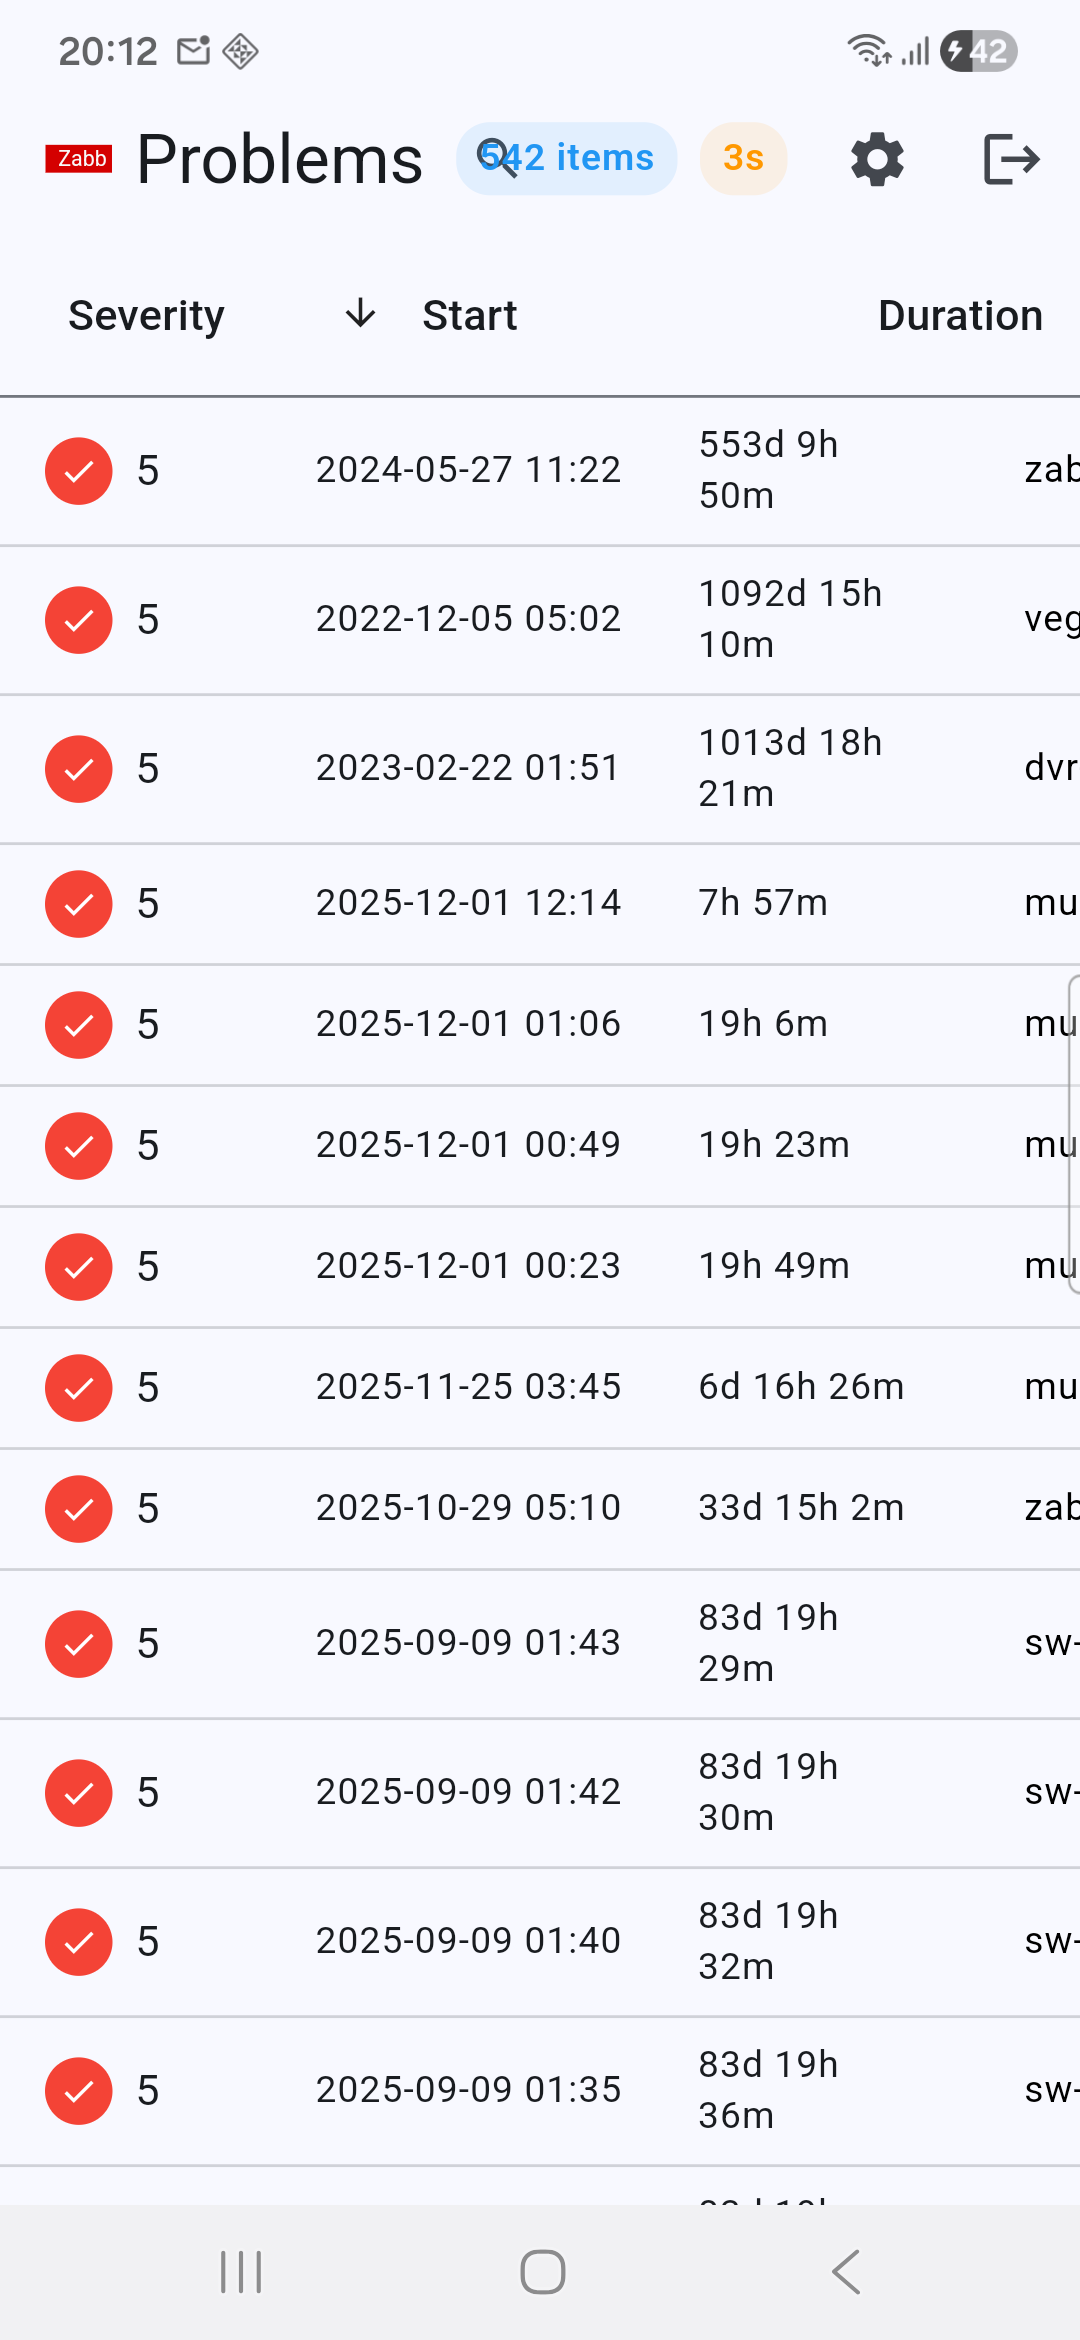
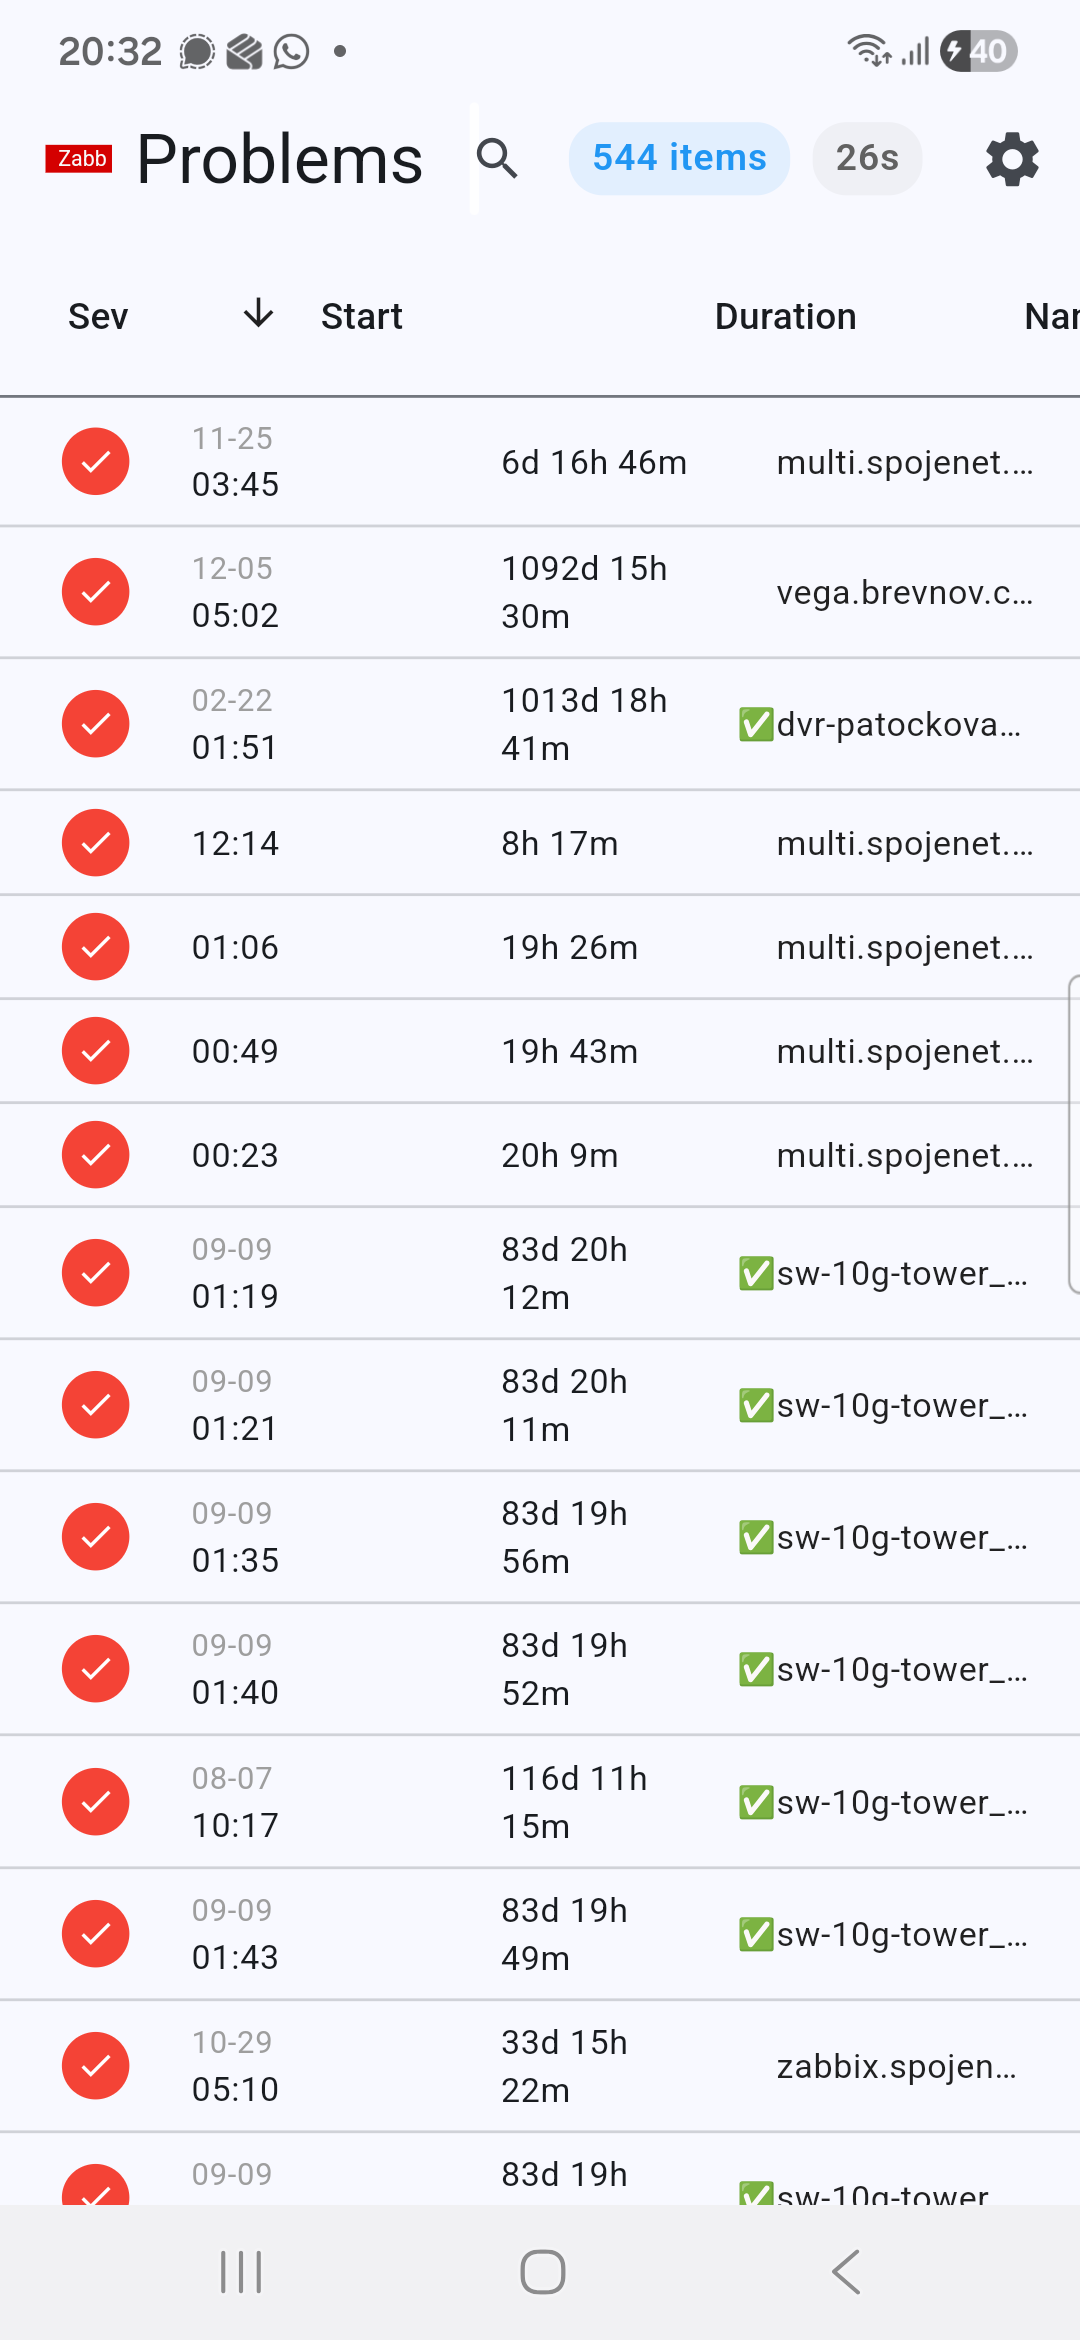
Fix UI issues: logout navigation, remove Problems text, search functionality, and column spacing
Navigation Fix:
- Fixed logout to navigate to welcome screen (/welcome) instead of root (/)

UI Improvements:
- Removed 'Problems' text from AppBar title for cleaner mobile interface
- Fixed search icon tap functionality - now properly focuses the search input field
- Added FocusNode for search field management

Layout Optimization:
- Reduced excessive spacing between Start and Duration columns
- Optimized column widths: Start (85px), Duration (70px) for better space utilization
- Updated header column widths to match data column widths

Technical Changes:
- Added _searchFocusNode with proper disposal
- Made search icon tappable with GestureDetector
- Updated version to 0.1.3

diff --git a/lib/screens/problems_screen.dart b/lib/screens/problems_screen.dart
@@ -20,6 +20,7 @@ class _ProblemsScreenState extends State<ProblemsScreen> {
   int _countdownSeconds = 30;
   int _itemCount = 0;
   final _searchController = TextEditingController();
+  final _searchFocusNode = FocusNode();
   
   // Filter state that persists across refreshes
   int? _selectedSeverity;
@@ -37,6 +38,7 @@ class _ProblemsScreenState extends State<ProblemsScreen> {
   void dispose() {
     _refreshTimer?.cancel();
     _searchController.dispose();
+    _searchFocusNode.dispose();
     super.dispose();
   }
 
@@ -88,7 +90,7 @@ class _ProblemsScreenState extends State<ProblemsScreen> {
                   await _auth.logout();
                   if (mounted) {
                     Navigator.of(context).pushNamedAndRemoveUntil(
-                      '/',
+                      '/welcome',
                       (route) => false,
                     );
                   }
@@ -120,17 +122,19 @@ class _ProblemsScreenState extends State<ProblemsScreen> {
         title: Row(
           children: [
             SvgPicture.asset('assets/zabb.svg', height: 24, width: 24),
-            const SizedBox(width: 8),
-            const Text('Problems'),
             const SizedBox(width: 16),
             Expanded(
               child: SizedBox(
                 height: 40,
                 child: TextField(
                   controller: _searchController,
+                  focusNode: _searchFocusNode,
                   decoration: InputDecoration(
                     hintText: 'Search...',
-                    prefixIcon: const Icon(Icons.search, size: 20),
+                    prefixIcon: GestureDetector(
+                      onTap: () => _searchFocusNode.requestFocus(),
+                      child: const Icon(Icons.search, size: 20),
+                    ),
                     suffixIcon: _searchQuery.isNotEmpty
                         ? IconButton(
                             icon: const Icon(Icons.clear, size: 18),
@@ -815,11 +819,11 @@ class _ProblemsTableState extends State<_ProblemsTable> {
                 onSort: (i, asc) => setState(() { _sortColumnIndex = i; _sortAscending = asc; }),
               ),
               DataColumn(
-                label: const SizedBox(width: 110, child: Text('Start', style: TextStyle(fontSize: 12))),
+                label: const SizedBox(width: 85, child: Text('Start', style: TextStyle(fontSize: 12))),
                 onSort: (i, asc) => setState(() { _sortColumnIndex = i; _sortAscending = asc; }),
               ),
               DataColumn(
-                label: const SizedBox(width: 80, child: Text('Duration', style: TextStyle(fontSize: 12))),
+                label: const SizedBox(width: 70, child: Text('Duration', style: TextStyle(fontSize: 12))),
                 onSort: (i, asc) => setState(() { _sortColumnIndex = i; _sortAscending = asc; }),
               ),
               DataColumn(
@@ -868,23 +872,23 @@ class _ProblemsTableState extends State<_ProblemsTable> {
                         },
                       ),
                     ),
-                    const SizedBox(width: 12),
+                    const SizedBox(width: 8),
                     // Start column with responsive formatting
                     GestureDetector(
                       onTap: () => widget.onDetails(p),
                       child: SizedBox(
-                        width: 98,
+                        width: 85,
                         child: startDateTime == null 
                             ? const Text('', style: TextStyle(fontSize: 11))
                             : _buildDateTimeColumn(startDateTime),
                       ),
                     ),
-                    const SizedBox(width: 12),
+                    const SizedBox(width: 8),
                     // Duration column
                     GestureDetector(
                       onTap: () => widget.onDetails(p),
                       child: SizedBox(
-                        width: 68, 
+                        width: 70, 
                         child: Text(
                           _formatDuration(duration), 
                           style: const TextStyle(fontSize: 11),
